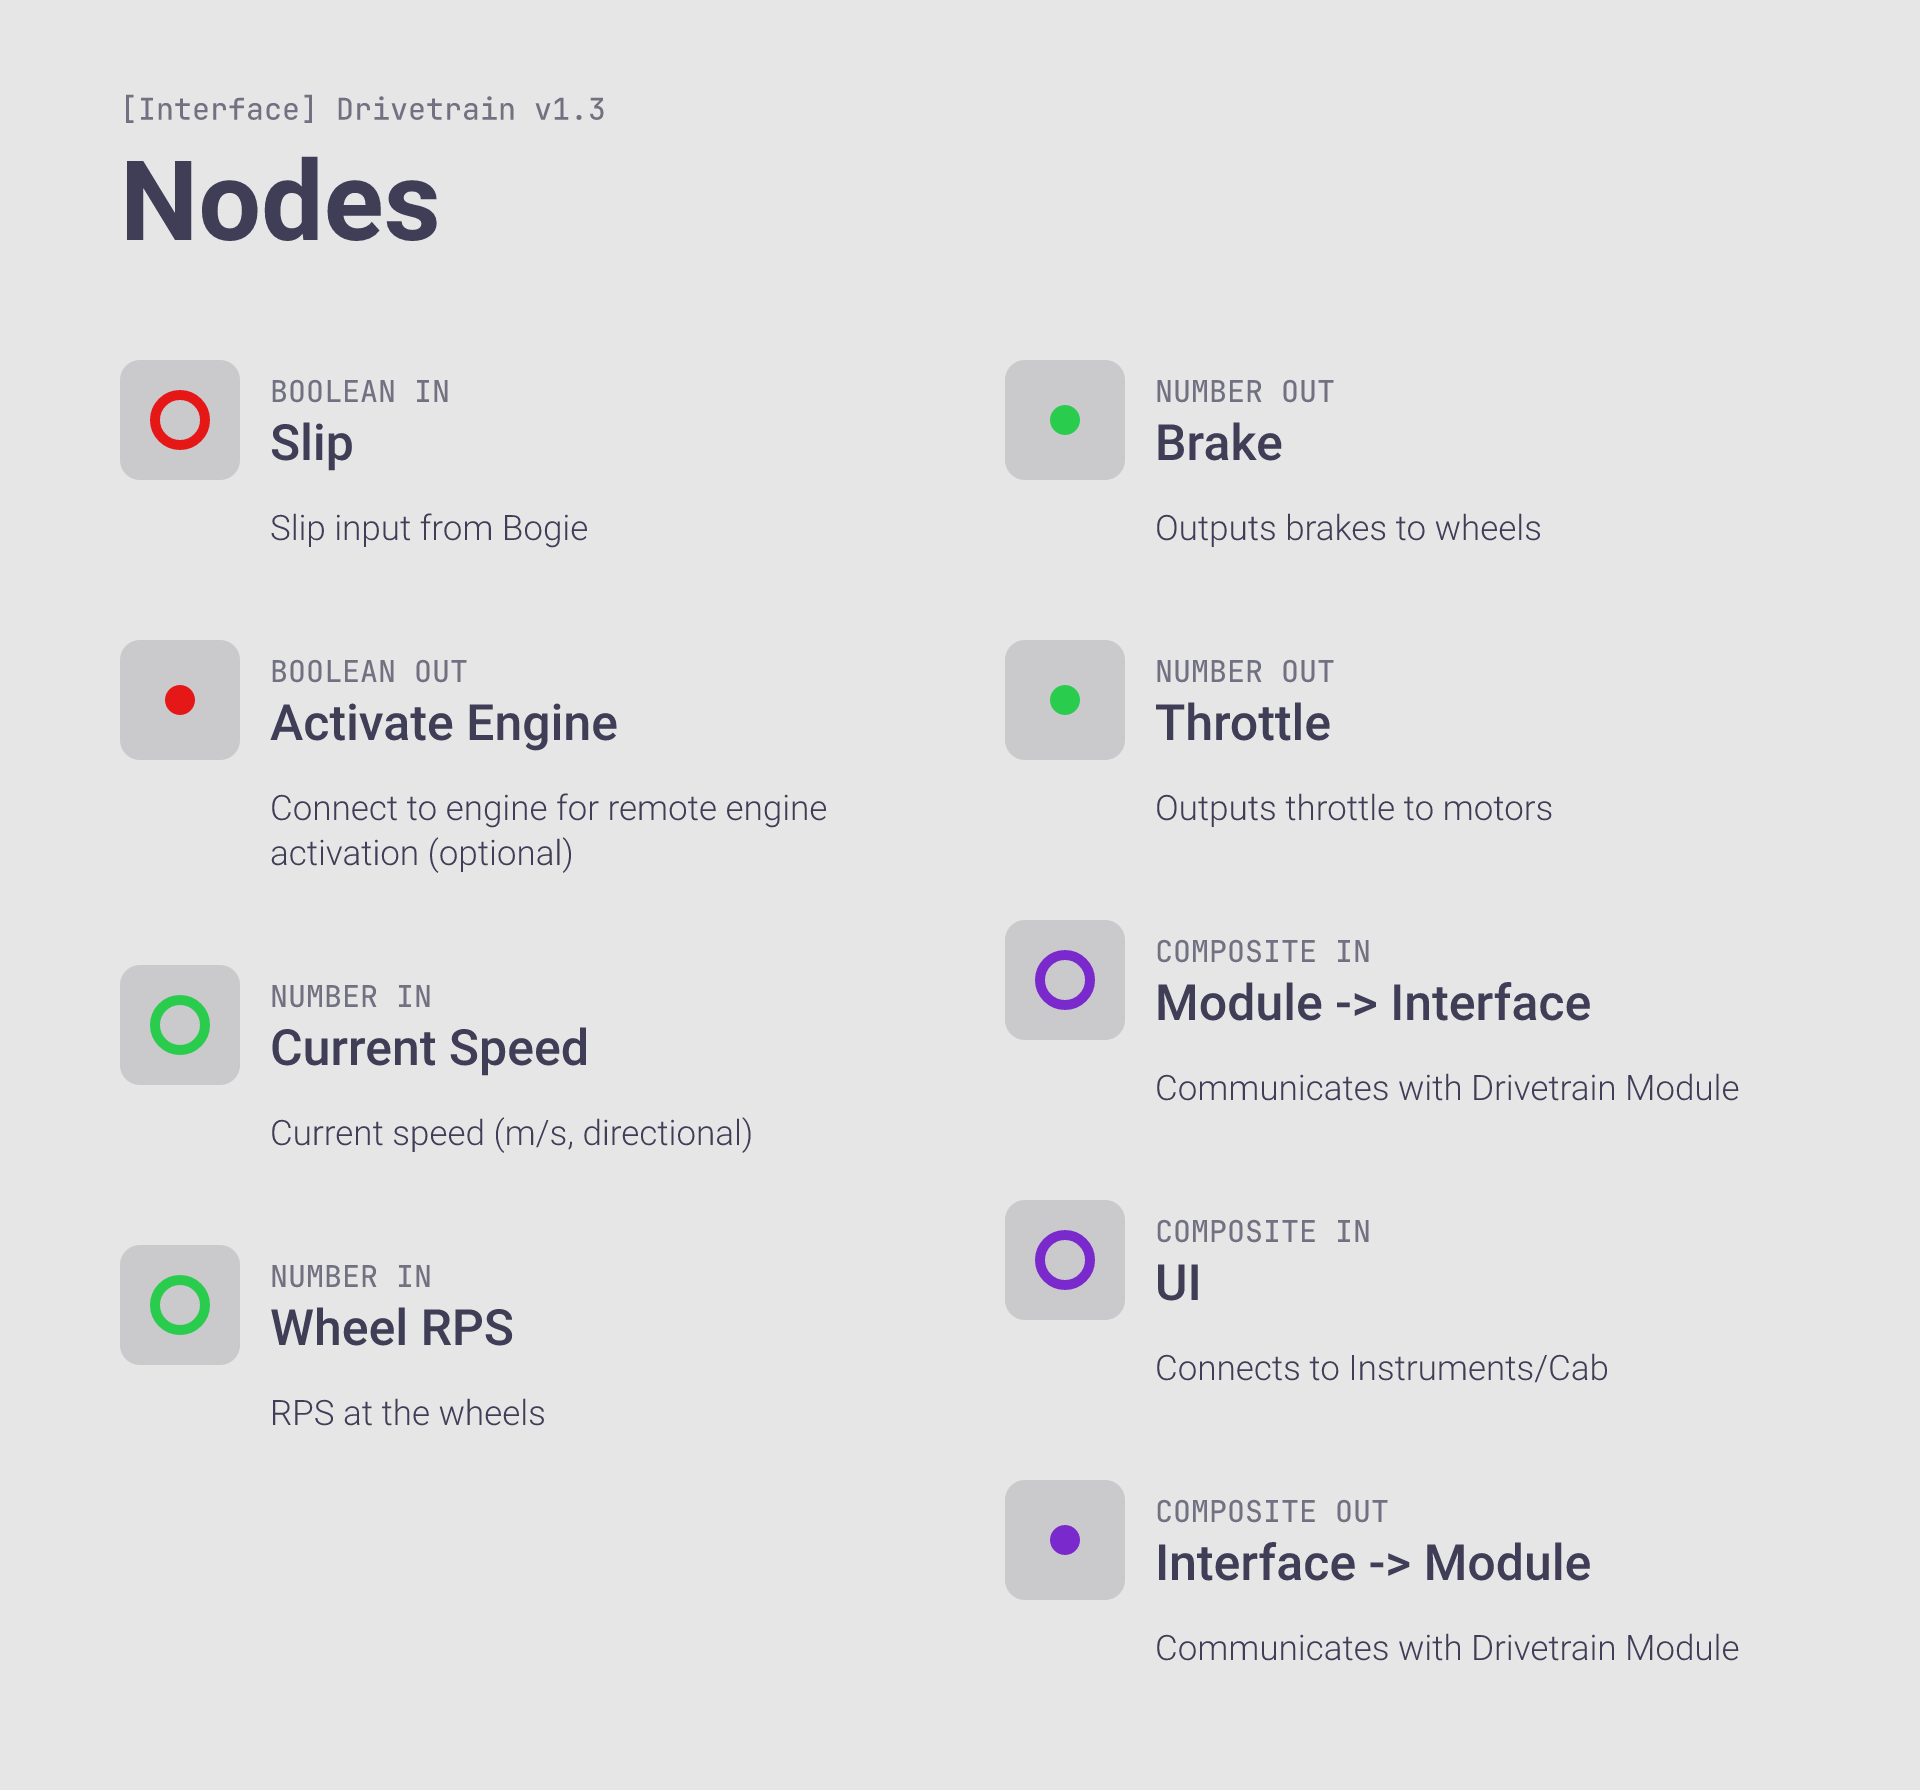
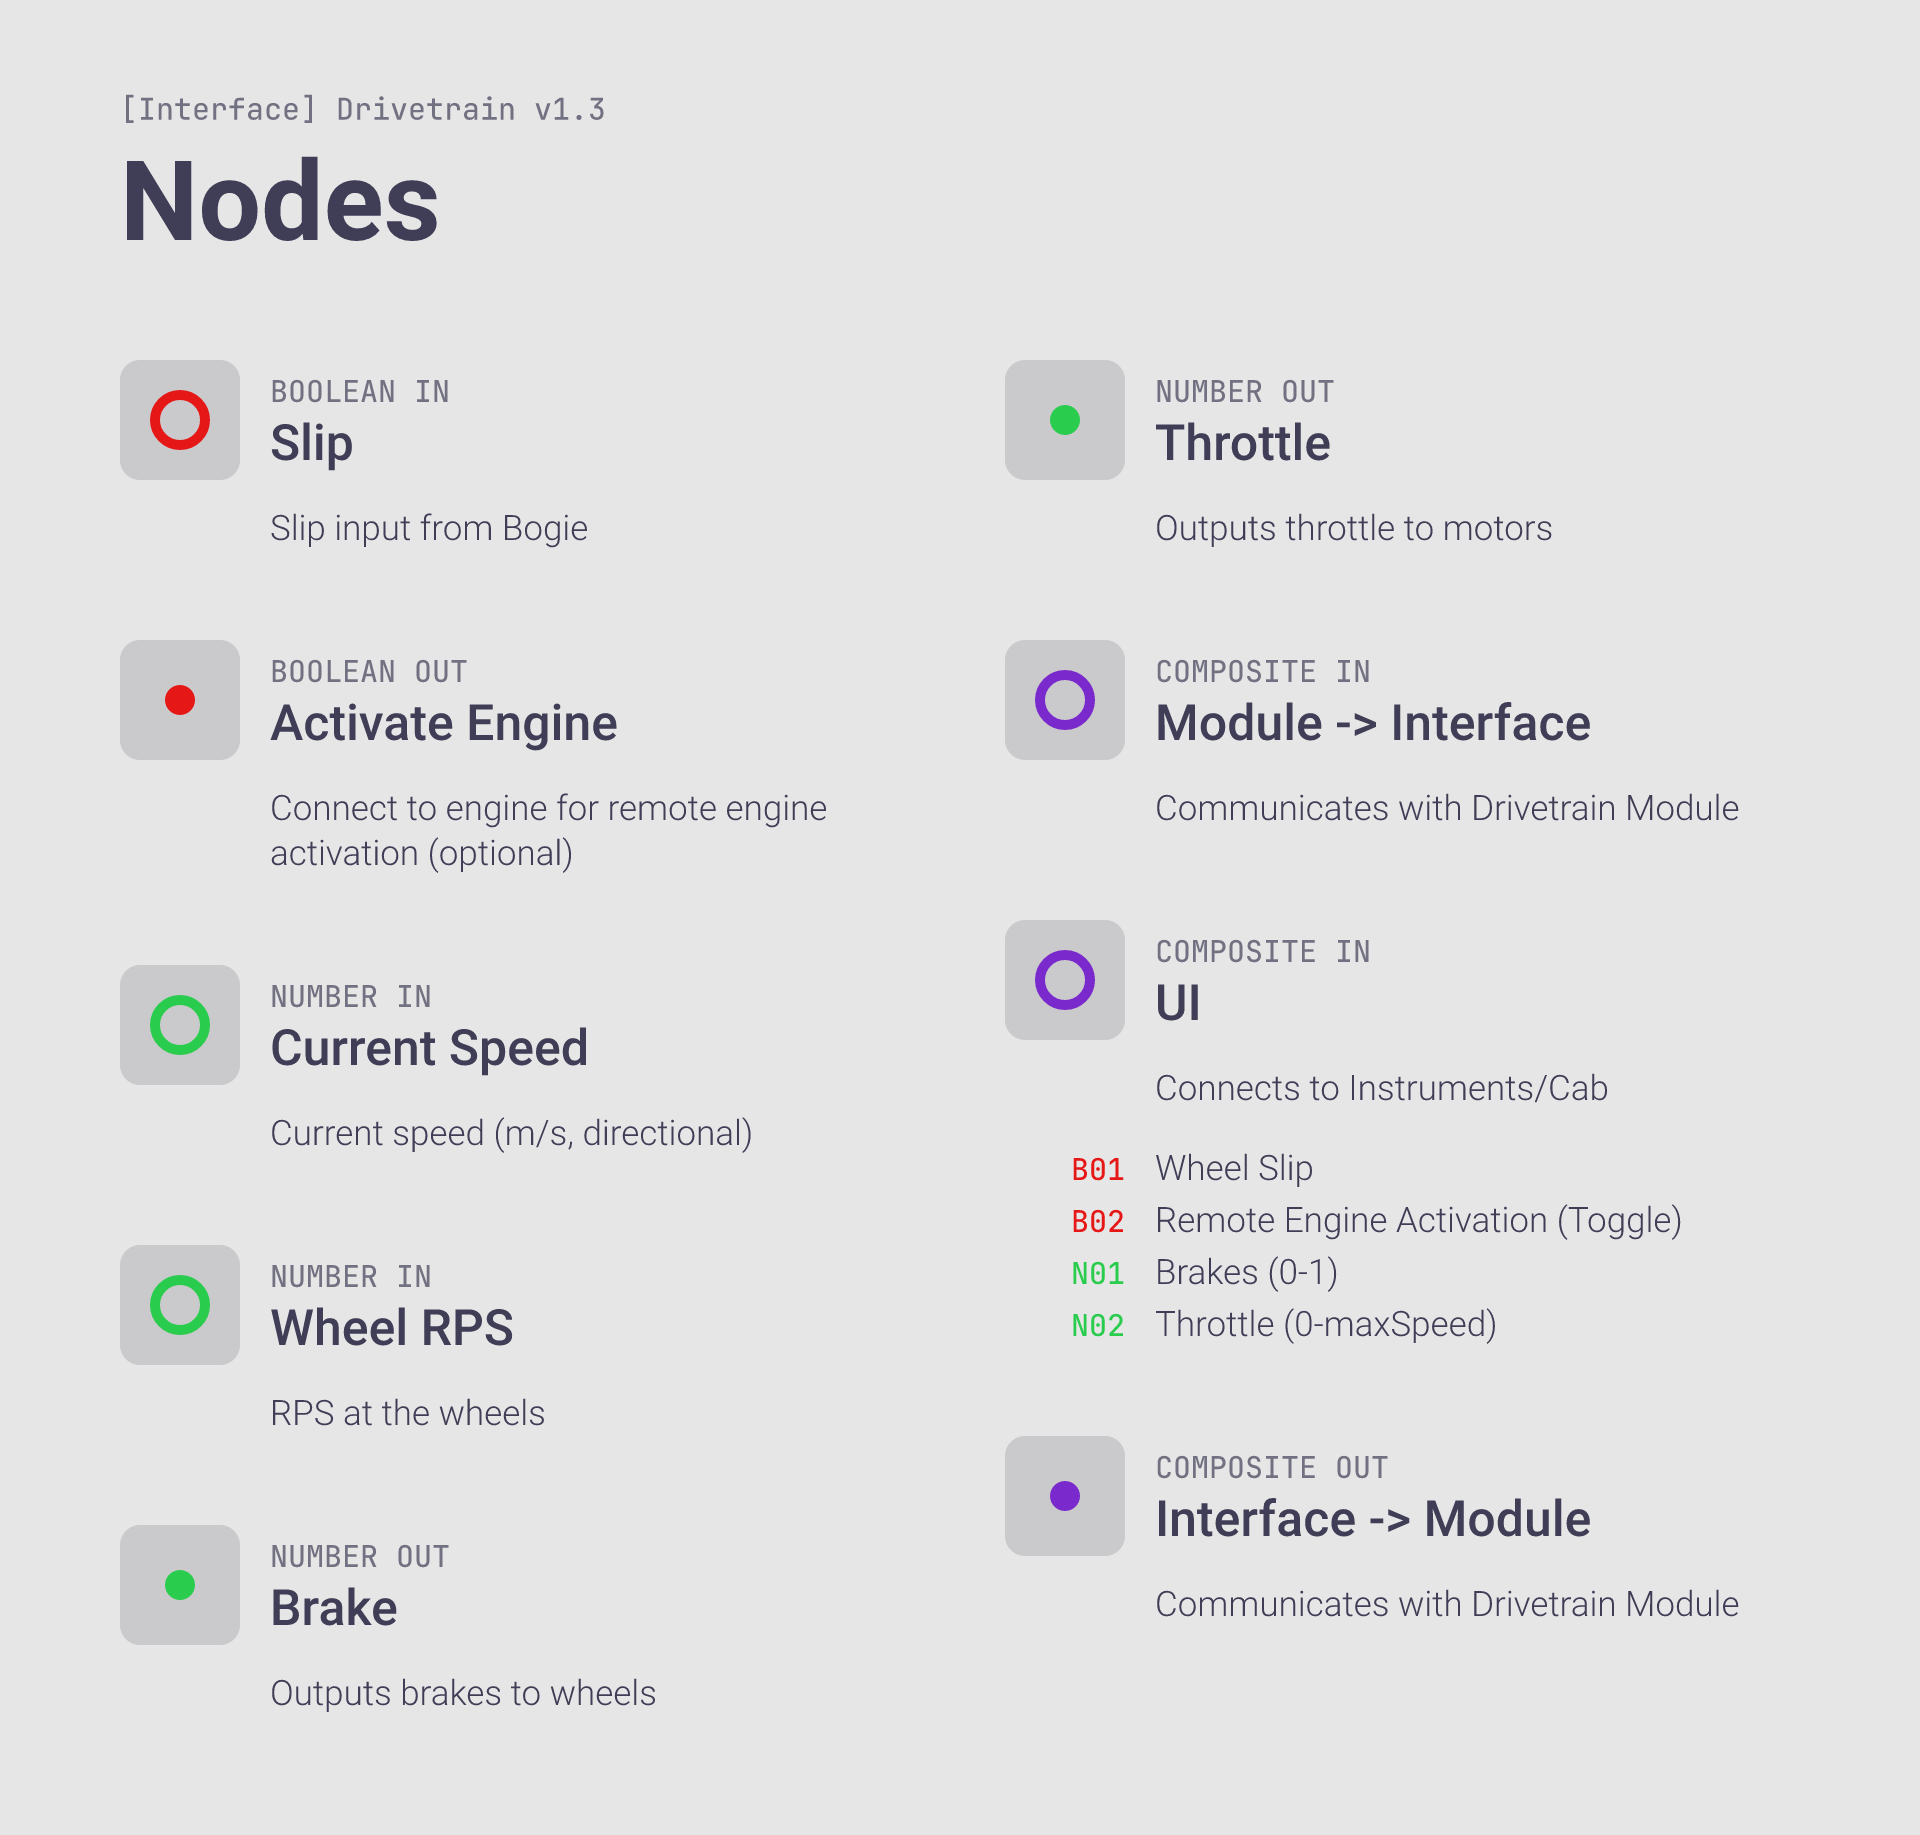
improved handling of composite channel documentation

diff --git a/UpdateUtility/updateUtility.js b/UpdateUtility/updateUtility.js
@@ -5,7 +5,7 @@ require("./mediaElements")
 require("dotenv").config({ path: path.join(__dirname, "./.env") });
 
 const { execSync } = require('child_process');
-const { XMLParser } = require("fast-xml-parser")
+const { XMLParser, XMLBuilder } = require("fast-xml-parser")
 const { Resvg } = require('@resvg/resvg-js')
 const readline = require("readline")
 
@@ -23,6 +23,7 @@ const rl = readline.createInterface({
 const prompt = (query) => new Promise((resolve) => rl.question(query, resolve));
 
 swXMLParser = new XMLParser({ignoreAttributes: false})
+swXMLBuilder = new XMLBuilder({ignoreAttributes: false, format: true, indentBy: "\t", suppressEmptyNode: true, suppressBooleanAttributes: false, processEntities: true})
 //swXMLBuilder = new XMLBuilder()
 
 // node updateUtility -args
@@ -97,27 +98,27 @@ async function execDatabase() {
 	let promises = []
 	let controllers = []
 	dirs.forEach(dir => fs.readdirSync(cPath + dir + "/").filter(file => file.startsWith("SRC-TCP") && file.endsWith(".xml")).forEach(file => controllers.push({
-			path: cPath + dir + "/",
-			file: file,
-			nameData: mergeJSON(data.fromName(file), {group: dir})
+		path: cPath + dir + "/",
+		file: file,
+		group: dir.replace(" Group", ""),
+		nameData: data.fromName(file)
 	})))
 
 	controllers.forEach(c => {
 		let buffer = fs.readFileSync(c.path + c.file, "utf-8")
-		buffer = buffer.replaceAll(/(?<=description=")(?<Desc>[^"]+?)(?: *\/\/ *[^"]*?)?(?:(?<= *\/\/ *)#(?<ID>[a-z]\d+?))?(?=")/gm, (_, desc, tID) => desc + (tID ? resolveTextID(tID) + " // #" + tID : ""))
+		buffer = buffer.replaceAll(/(?<=description=")(?<desc>.+?) *\/\/ *.*?(?=")/gm, (_, desc) => desc) // clean
+
+		//console.log(c.group)
 
 		let xml = swXMLParser.parse(buffer)
-		c.data = data.fromXML(xml)
+		c.data = mergeJSON({group: c.group}, data.fromXML(xml, c.group))
+		// TODO: print channel list in controller xml (
+		// buffer = swXMLBuilder.build(xml)
 
-		fs.writeFileSync(c.path + c.file, buffer.replace(/\r\n/g, "\n")) // temp
-	})
-
-	controllers.forEach(c => {
-		if (c.nameData.identifier !== c.data.identifier)
-			return console.log("\x1b[33m%s\x1b[0m", "identifier mismatch: \"" + c.nameData.identifier + "\" (filename) // \"" + c.data.identifier + "\" (name in xml file)")
-		//if (database.controllers[c.data.identifier] === undefined) database.controllers[c.data.identifier] =  {}
-
+		if (c.nameData.identifier !== c.data.identifier) return console.log("\x1b[33m%s\x1b[0m", "identifier mismatch: \"" + c.nameData.identifier + "\" (filename) // \"" + c.data.identifier + "\" (name in xml file)")
 		database.controllers[c.data.identifier] = mergeJSON(database.controllers[c.data.identifier] ?? {}, c.data)
+
+		fs.writeFileSync(c.path + c.file, buffer.replace(/\r\n/g, "\n"))
 	})
 
 	// auto generate hierarchy
@@ -226,7 +227,6 @@ async function execImages() {
 
 // Steam
 async function execSteam() {
-	console.log(process.env.steamLogin)
 
 	let sPath = path.join(__dirname, ".steam/")
 	if (!fs.existsSync(sPath)) fs.mkdirSync(sPath)
@@ -273,8 +273,9 @@ async function execExport(index) {
 	let groups = {};
 
 	for (let identifier in database.connections.composite) {
-		let group = identifier.match(/^[^#]*/)[0]
-		if (!groups[group]) groups[group] = {
+		let domain = identifier.match(/^[^#]*/)[0]
+		if (!database.groups[domain]) continue;
+		if (!groups[domain]) groups[domain] = {
 			header1: "channel",
 			header2: "",
 			entries: Array(32).fill().map((v, i) => "" + (i+1))
@@ -282,13 +283,13 @@ async function execExport(index) {
 
 		let channels = resolveChannels(identifier);
 		let pushChannels = type => {
-			groups[group].header2 += "," + type
+			groups[domain].header2 += "," + type
 			for (let i = 0; i < 32; i++) {
-				groups[group].entries[i] += "," + (channels[type][i+1]?.label ?? "")
+				groups[domain].entries[i] += "," + (channels[type][i+1]?.label ?? "")
 			}
 		}
 
-		groups[group].header1 += "," + identifier.match(/(?<=#).*/)[0] + ","
+		groups[domain].header1 += "," + identifier.match(/(?<=#).*/)[0] + ","
 		pushChannels("boolean")
 		pushChannels("number")
 	}
@@ -320,17 +321,21 @@ data = {
 	fromDatabase: (identifier) => {
 		return database.controllers[identifier]
 	},
-	fromXML: (xml) => {
+	fromXML: (xml, group) => {
 		let nodes = []
 		xml.microprocessor.nodes.n.forEach((n) => {
 			n = n.node
-			let desc = (n["@_description"] || " ").match(/(.*?)(?: *\/\/ *.*?#(c\d+))?$/m)
+			let label = n["@_label"] || ""
+			let desc = (n["@_description"] || " ").match(/.*?(?= *\/\/ *|$)/)[0]
+			let mode = (n["@_mode"] === "1")
+			let type = Number(n["@_type"]) || 0
+			let channels = [group, "Any"].map(d => (c => database.connections.composite[c] ? c : undefined)(d + "#" + label.replaceAll(" ", ""))).reduce((p, c) => p ?? c, undefined)
 			nodes.push({
 				label: n["@_label"] || "",
-				description: desc[1],
-				channels: reverseTextIDs[desc[2]],
-				mode: (n["@_mode"] === "1"), // true is input, false is output
-				type: Number(n["@_type"]) || 0,
+				description: desc,
+				mode: mode, // true is input, false is output
+				type: type,
+				channels: channels,
 				position: n.position && {
 					x: Number(n.position["@_x"]) || 0,
 					z: Number(n.position["@_z"]) || 0
@@ -347,11 +352,11 @@ data = {
 	}
 }
 
-reverseTextIDs = (() => {
+/*reverseTextIDs = (() => {
 	let result = {}
 	for (let identifier in database.connections.composite) result["c"+database.connections.composite[identifier].id] = identifier
 	return result
-})()
+})()*/
 
 placeholders = (buffer, x) => {
 	return buffer.replaceAll(/{\$([^}]*?)}/gm, (_, tID) => {
@@ -364,7 +369,7 @@ placeholders = (buffer, x) => {
 resolveTextID = tID => {
 
 	switch (tID.charAt(0)) {
-		case 'c':
+		/*case 'c':
 			let c = resolveChannels(reverseTextIDs[tID])
 			let convert = (type) => {
 				let res = []
@@ -372,7 +377,7 @@ resolveTextID = tID => {
 				return res.filter(v => v.visibility > 1).sort((a,b) => a.channel - b.channel).reduce((prev, curr) => prev += type.charAt(0).toUpperCase() + curr.channel + ": " + curr.label + "; ", "")
 			}
 			let res = (convert("boolean") + convert("number")).trim()
-			return (res === "") ? "" : " // Channels: " + res
+			return (res === "") ? "" : " // Channels: " + res*/
 		case ".":
 			return x => x[tID.substring(1)]
 		case "s":
@@ -392,15 +397,15 @@ resolveChannels = identifier => {
 		number: {}
 	}
 
-	let expandChannels = type => {
-		if (entry.channels) for (let ch in entry.channels[type]) {
-			let channel = entry.channels[type][ch]
-			resolved[type][ch] = {
-				label: typeof channel === "string" ? channel : channel.label,
-				visibility: typeof channel === "string" ? entry.visibility : channel.visibility
-			}
-		}
-	}
+	let expandVis = (vis, def) => typeof vis === "number" ? { in: vis, out: vis } : { in: vis?.in ?? def, out: vis?.out ?? def }
+
+	let vis = expandVis(entry.visibility, 0)
+	let visLimit = expandVis(entry.visibilityLimit, 3)
+
+	let expandChannels = type => Object.entries(entry.channels ? entry.channels[type] ?? {} : {}).forEach(ch => resolved[type][ch[0]] = {
+		label: typeof ch[1] === "string" ? ch[1] : ch[1].label ?? "",
+		visibility: typeof ch[1] === "string" ? vis : expandVis(ch[1].visibility, 0)
+	})
 
 	expandChannels("boolean")
 	expandChannels("number")
@@ -410,6 +415,14 @@ resolveChannels = identifier => {
 		resolved.boolean = mergeJSON(inherited.boolean, resolved.boolean)
 		resolved.number = mergeJSON(inherited.number, resolved.number)
 	})
+
+	let applyLimit = type => Object.values(resolved[type]).forEach(ch => ch.visibility = {
+		in: Math.min(ch.visibility.in, visLimit.in),
+		out: Math.min(ch.visibility.out, visLimit.out)
+	})
+
+	applyLimit("boolean")
+	applyLimit("number")
 
 	return resolved
 }

diff --git a/UpdateUtility/mediaElements.js b/UpdateUtility/mediaElements.js
@@ -64,7 +64,13 @@ genNode = (n, opt) => {
 	}
 }
 
-genCompositeChannelInfo = (cid, w) => {
+genCompositeChannelInfo = (cid, opt) => {
+
+	opt = {
+		width: opt?.width ?? 795,
+		mode: opt?.mode,
+		visibility: opt?.visibility ?? 0
+	}
 
 	let eChannelInfo = SVG("<g></g>")
 
@@ -77,7 +83,7 @@ genCompositeChannelInfo = (cid, w) => {
 
 		let c = []
 		for (let ch in channels[type]) c.push(mergeJSON(channels[type][ch], { channel: Number(ch) }))
-		c = c.filter(v => v.visibility > 1).sort(v => v.channel)
+		c = c.filter(v => (opt.mode ? v.visibility.in : v.visibility.out) > opt.visibility).sort(v => v.channel)
 
 		//if (c.length > 0) y += 45
 		eIDs.attr({y: y + 52})
@@ -86,7 +92,7 @@ genCompositeChannelInfo = (cid, w) => {
 		eLabels.font({leading: 1})
 
 		let d = 0
-		eIDs.text(id => eLabels.text(label => c.forEach(v => wrapText(v.label, textWidth.robotoMedium({fontSize: 35}), w - 150).forEach((line, i) => {
+		eIDs.text(id => eLabels.text(label => c.forEach(v => wrapText(v.label, textWidth.robotoMedium({fontSize: 35}), opt.width - 150).forEach((line, i) => {
 			let d = i === 0 ? 52 : 45
 			eIDs.font({size: d})
 			eLabels.font({size: d})
@@ -104,12 +110,17 @@ genCompositeChannelInfo = (cid, w) => {
 	y = Math.max(y + 10, 0)
 
 	return {
-		dimensions: { width: w, height: y },
+		dimensions: { width: opt.width, height: y },
 		data: fixSVG(eChannelInfo.svg())
 	}
 }
 
-genNodeInfo = (n, w) => {
+genNodeInfo = (n, opt) => {
+
+	opt = {
+		width: opt?.width ?? 795,
+		visibility: opt?.visibility ?? 0
+	}
 
 	let eNode = SVG(genNode(n).data)
 	let eInfo = SVG("<text class=\"mono cDark2\" transform=\"translate(150 42)\"></text>")
@@ -122,12 +133,12 @@ genNodeInfo = (n, w) => {
 
 	let y = 120
 
-	let wLabel = wrapText(n.label, textWidth.robotoMedium({fontSize: 50}), w - 150)
+	let wLabel = wrapText(n.label, textWidth.robotoMedium({fontSize: 50}), opt.width - 150)
 	eLabel.font({size: 60, leading: 1})
 	eLabel.text(add => wLabel.forEach(line => add.tspan(line).newLine()))
 	y += (wLabel.length-1) * 60
 
-	let wDescription = wrapText(n.description, textWidth.robotoMedium({fontSize: 35}), w - 150)
+	let wDescription = wrapText(n.description, textWidth.robotoMedium({fontSize: 35}), opt.width - 150)
 	if (wDescription.length > 0) y += 60
 	eDescription.attr({y: y - 180})
 	eDescription.font({size: 45, leading: 1})
@@ -137,10 +148,10 @@ genNodeInfo = (n, w) => {
 
 	if (n.channels) {
 		y += 40
-		let channelInfo = genCompositeChannelInfo(n.channels, w)
+		let channelInfo = genCompositeChannelInfo(n.channels, { width: opt.width, mode: n.mode, visibility: opt.visibility })
 		let eChannelInfo = SVG(channelInfo.data)
 		eChannelInfo.attr({transform: "translate(0 " + y + ")"})
-		y += channelInfo.dimensions.height
+		y += channelInfo.dimensions.height !== 0 ? channelInfo.dimensions.height : -40
 		eNodeInfo.add(eChannelInfo)
 	}
 
@@ -152,7 +163,7 @@ genNodeInfo = (n, w) => {
 	if (y < 120) console.log(n.label)
 
 	return {
-		dimensions: { width: w, height: y },
+		dimensions: { width: opt.width, height: y },
 		data: fixSVG(eNodeInfo.svg())
 	}
 }
@@ -365,7 +376,7 @@ genControllerNodes = c => {
 	// nodes
 	let nodeInfoWidth = 795
 	let eNodes = SVG("<g id=\"Nodes\" transform=\"translate(120 360)\"></g>")
-	let nodes = ([...c.nodes].sort((a, b) => a.type - b.type || b.mode - a.mode)).map(node => genNodeInfo(node, nodeInfoWidth)) // sorting
+	let nodes = ([...c.nodes].sort((a, b) => a.type - b.type || b.mode - a.mode)).map(node => genNodeInfo(node, { width: nodeInfoWidth, visibility: 1 })) // sorting
 	let wrap = wrapPartition(nodes, node => node.dimensions.height, 90)
 
 	let y = 0, x = 0
